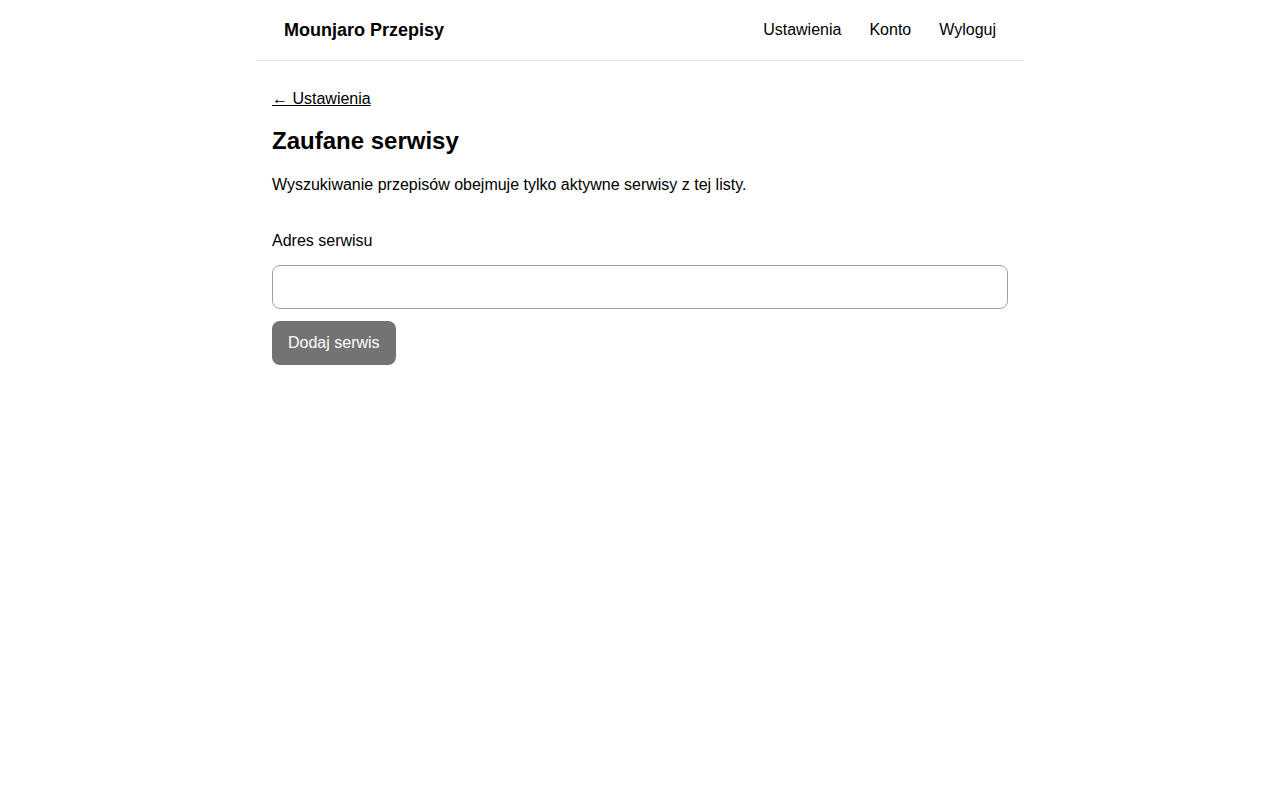
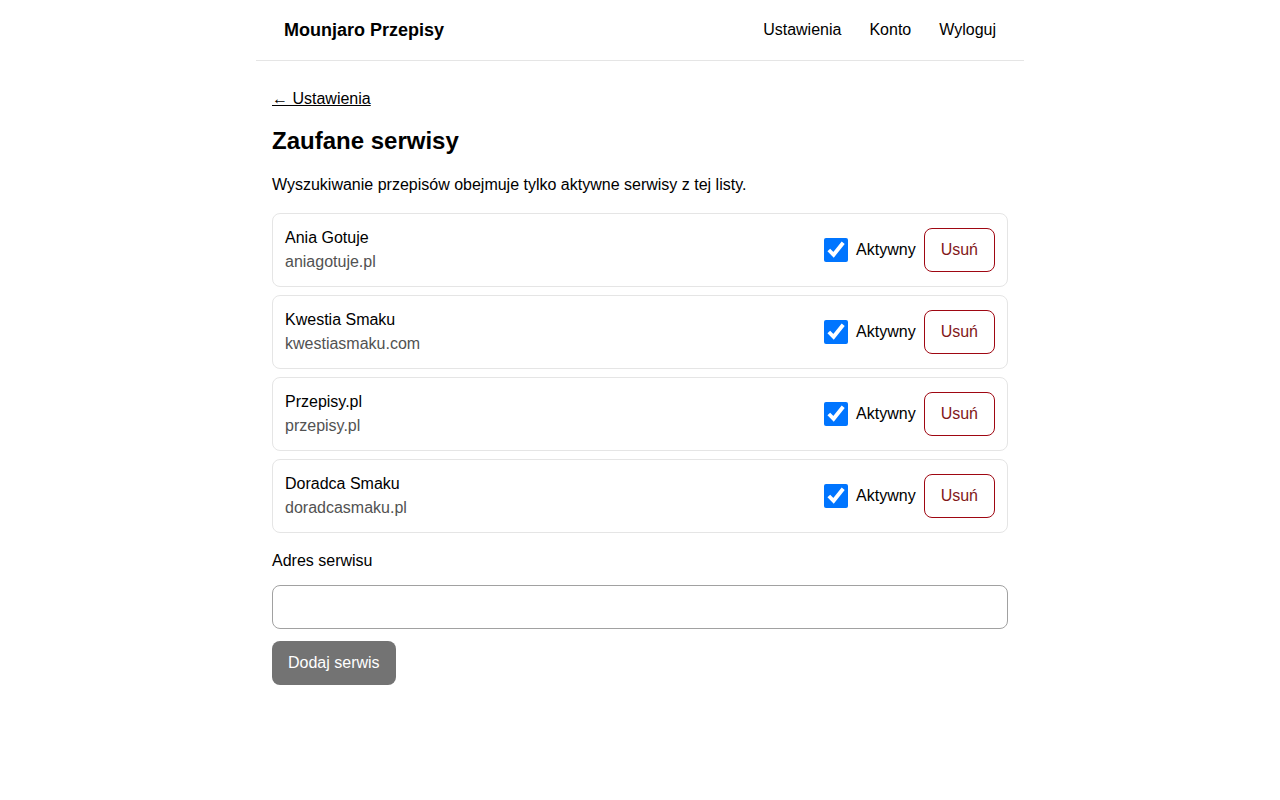
test(e2e): wait for the trusted sites list before capturing

diff --git a/tests/e2e/screens.ts b/tests/e2e/screens.ts
@@ -188,7 +188,11 @@ export const SCREENS: readonly Screen[] = [
   simple('ustawienia-progi-filtrow', '/ustawienia/progi-filtrow', 'Progi filtrów'),
   simple('ustawienia-cele', '/ustawienia/cele', 'Cele i szklanka'),
   simple('ustawienia-przypomnienie', '/ustawienia/przypomnienie', 'Przypomnienie o zastrzyku'),
-  simple('ustawienia-zaufane-serwisy', '/ustawienia/zaufane-serwisy', 'Zaufane serwisy'),
+  screen('ustawienia-zaufane-serwisy', 'culinary', async (page) => {
+    await heading('/ustawienia/zaufane-serwisy', 'Zaufane serwisy')(page);
+    // The default list arrives after the heading.
+    await expect(page.getByText('Ania Gotuje')).toBeVisible();
+  }),
   simple('ustawienia-moje-dane', '/ustawienia/moje-dane', 'Moje dane'),
   simple('konto', '/konto', 'Konto'),
   simple('dawki', '/dawki', 'Dziennik dawek', 'health'),
